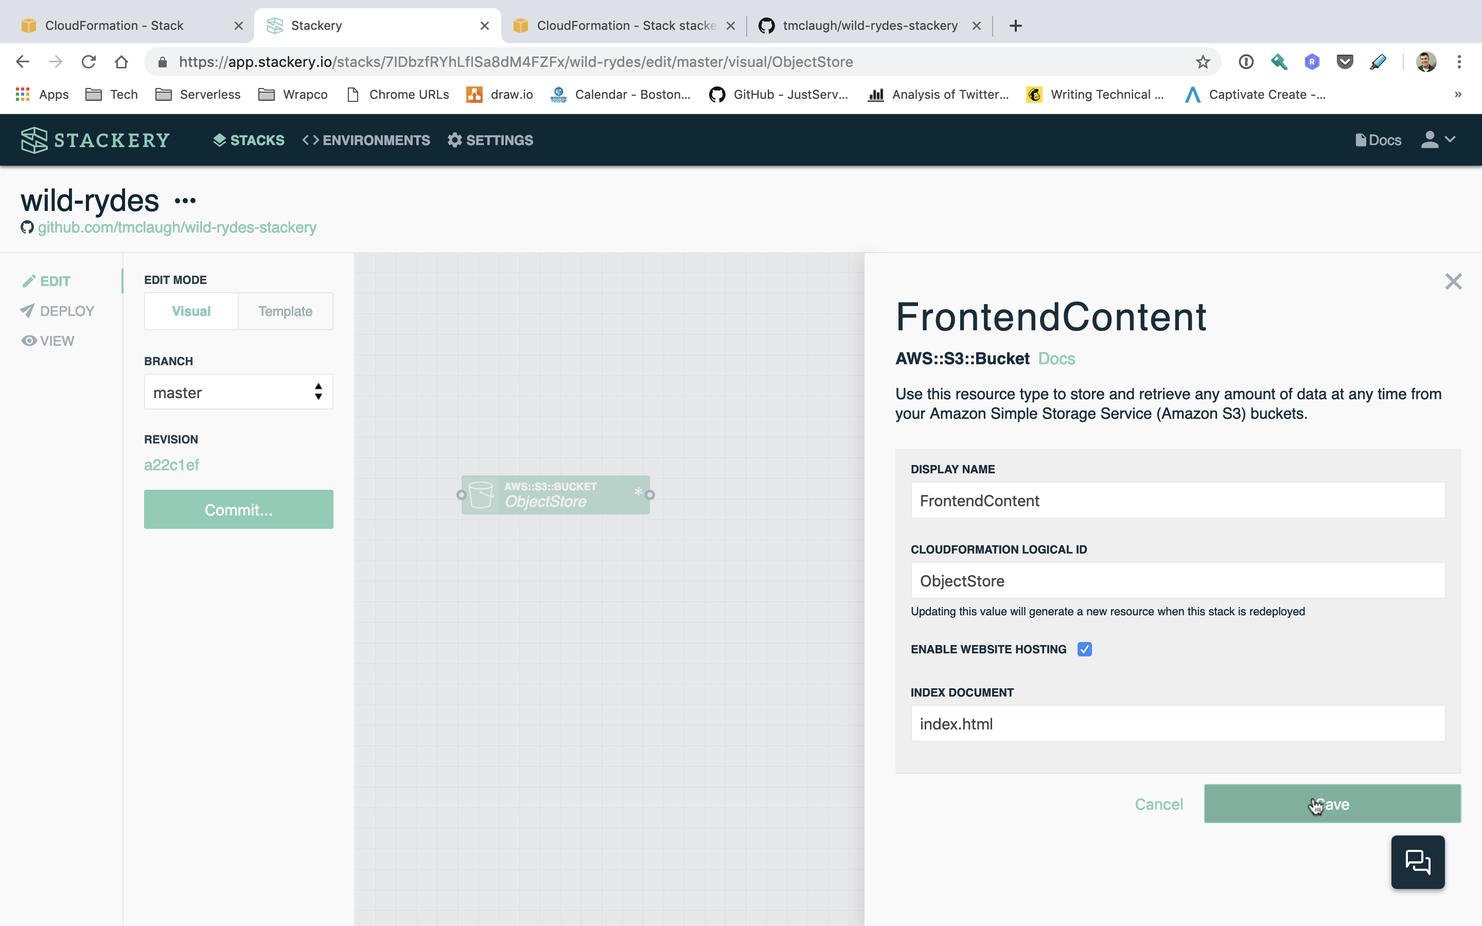
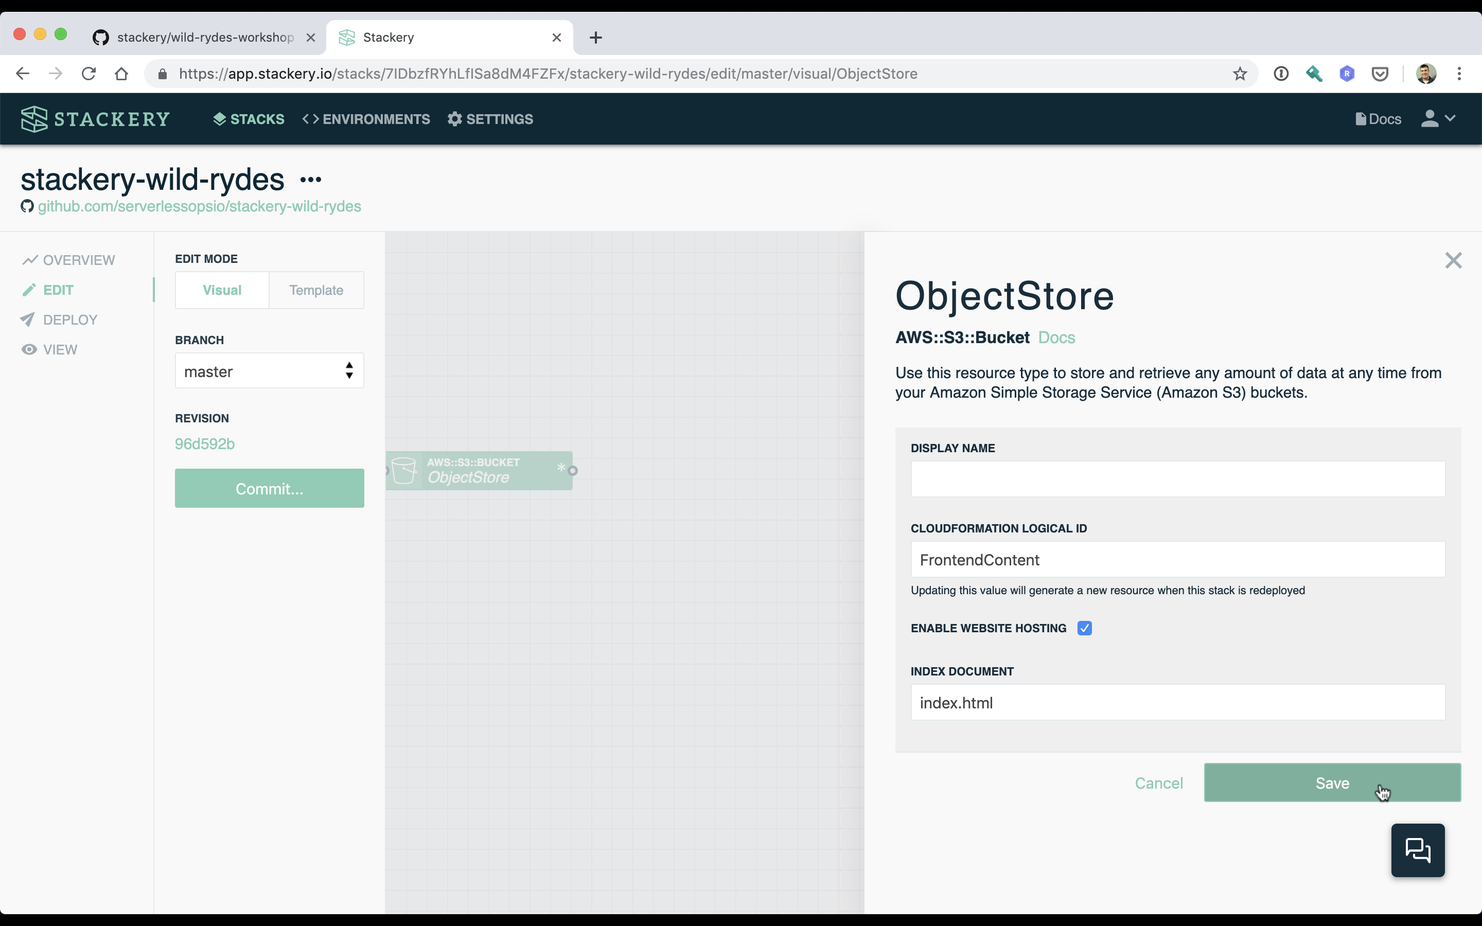
add images

diff --git a/01-frontend.md b/01-frontend.md
@@ -1,93 +1,82 @@
 # Frontend Content
-In this step of the workshop you will create and deploy the Wild Rydes frontend. The frontend is composed of an AWS S3 bucket and a Lambda function that is triggered on deployment which will populate the S3 bucket with the Wild Rydes static content.
+In this step of the workshop you will create and deploy the *Wild Rydes* frontend. The frontend is composed of an AWS S3 bucket and an AWS Lambda function that is triggered on deployment which will populate the S3 bucket with the *Wild Rydes* static content.
 
 ## AWS Services
 
 * AWS S3
 * AWS Lambda
+* AWS Cloudformation
 
 ## Instructions
 
 ### 1. Add an Object Store resource
-Add an "Object Store" resource (an AWS S3 Bucket) to serve the website content. Click the **Add Resource** button in the top right of screen to reveal the resources menu. Then click on the *Object Store* resource to add it to the canvas and your application stack. Alternatively you can also drag and place the resource on the canvas.
+Add an *Object Store* resource (an AWS S3 Bucket) to serve the website content. Click the **Add Resource** button in the top right of screen to reveal the resources menu. Then click on the *Object Store* resource to add it to the canvas and your application stack. Alternatively you can also drag and place the resource on the canvas.
 
 ![Add Object Store](./images/01-object-store.png)
 
-Next, double-click on the object store to edit it's settings. Set the **CLOUDFORMATION LOGICAL ID** fields to `FrontendContent`. Then click **ENABLE WEBSITE HOSTING** and leave the value of **INDEX DOCUMENT** as `index.html`. Finally save the Settings.
+Next, double-click on the Object Store resouce on the canvas to edit it's settings. Set the **CLOUDFORMATION LOGICAL ID** fields to `FrontendContent`. Then click **ENABLE WEBSITE HOSTING** and leave the value of **INDEX DOCUMENT** as `index.html`. Finally save the Settings.
 
-<!-- FIXME: Cloudformation Logica ID is wrong-->
 ![Configure Object Store](./images/01-object-store-config.png)
 
-AWS S3 bucket names must be globally unique, no two accounts can have a bucket with the same name. Because of this you need to explicitly name your bucket so it doesn't conflict with others in this workshop. Start by changing from the *Visual* **EDIT MODE** by clicking on *Template* in the upper left. This will change away from the visual canvas to the raw stack YAML.
-
-<!-- FIXME: IMAGE -->
-
-<!-- FIXME: remove once Stackery pushes out change to add AWS::AccountId automatically
-Find the *FrontendContent* resource (you can use Ctrl+F to search for it) and append `${AWS::AccountId}` to the existing **BucketName** value.
-
-Old resource:
-
-```yaml
-FrontendContent:
-  Type: AWS::S3::Bucket
-  Properties:
-    BucketName: !Sub ${AWS::StackName}-frontendcontent
-```
-
-New resource:
-
-```yaml
-FrontendContent:
-  Type: AWS::S3::Bucket
-  Properties:
-    BucketName: !Sub ${AWS::StackName}-frontendcontent-${AWS::AccountId}
-```
--->
-
-Once you've done that, click the **Commit** button on the left of the screen and then click the **Commit and Push** button.
+Click the **Commit** button on the left side of the screen to review your changes. The click **Commit and Push** to save your changes and push them to GitHub.
 
 ### 2. Add a Function resource
 Add a Function resource (an AWS Lambda Function) to update the website's static content. This function will copy the contents of a directory in the project source code to the Object Store we've just configured. You will also configure this Function resource to be triggered on every deployment of the stack.
 
 From the *Add Resources* menu (found buy clicking *Add Resource*), click a Function resource to add it to the stack.
 
-<!-- FIXME: IMAGE -->
+![Function Resource](./images/01-function.png)
 
-Next drag a wire from the Function to the *FrontendContent* Object Store. **Make sure to drag the wire from the right end of the Function resource and connect it to the left end of the Object Store resource**. The line you are dragging should be a dotted line and not a solid line if you've done this correctly. This distinction is necessary because we want to indicate that the Function resource needs permissions to access the Object Store resource, not that the Object Store resource is an event trigger for the function.
+Next drag a wire from the Function to the *FrontendContent* Object Store. **Make sure to drag the wire from the right end of the Function resource and connect it to the left end of the Object Store resource**. The line you are dragging should be a dotted line and not a solid line if you've done this correctly. This distinction is necessary because we want to indicate that the Function resource needs permissions to access the Object Store resource, not that the Object Store resource is an event trigger for the Function.
 
-<!-- FIXME: IMAGE -->
+![Function Relationship](./images/01-function-relationship.png)
 
 To tell if you've drawn the relationship correctly, double-click on the Function resource and scroll down to **ENVIRONMENT VARIABLES**. You should see the variables `BUCKET_NAME` and `BUCKET_ARN` defined.
 
+![Function S3 Environmental Variables](./images/01-function-s3-env-vars.png)
+
 Next in the Function's settings, set the **LOGICAL ID** field enter the value `PopulateFrontendContent`. Then update the **SOURCE PATH** field to `src/populateFrontendContent`. This path is where Stackery will create a scaffold for the function code inside the Git repository.
 
+![Function Config](./images/01-function-config.png)
 
-Scroll further down in the settings and check off **TRIGGER ON FIRST DEPLOY** and **TRIGGER ON EVERY DEPLOY**. This will create an [AWS CloudFormation CustomResource](https://docs.aws.amazon.com/AWSCloudFormation/latest/UserGuide/aws-resource-cfn-customresource.html) in the stack that will the function on deployments and updates. After you've done this, click the **Save** Button.
 
-<!-- FIXME: IMAGE -->
+Scroll further down in the settings and check off **TRIGGER ON FIRST DEPLOY** and **TRIGGER ON EVERY DEPLOY**. This will create an [AWS CloudFormation CustomResource](https://docs.aws.amazon.com/AWSCloudFormation/latest/UserGuide/aws-resource-cfn-customresource.html) in the stack that will trigger the function on deployments and updates. After you've done this, click the **Save** Button.
+
+![Function Config Deploy](./images/01-function-config-deploy.png)
+
+Click the **Commit** button on the left side of the screen to review your changes. The click **Commit and Push** to save your changes and push them to GitHub.
+
+![Commit Function changes](./images/01-function-commit.png)
 
 
 ### 3. Clone the application repository and workshop locally
 
-Clone your application repository using Git via the command line or favorite IDE / development tools to your computer. You will now locally edit the code of the _populateFrontendContent_ function. In the upper left of your screen underneath the stack name is a link to your code repository. Click the link to navigate to it and follow the GitHub instructions for cloning it to your computer.
+Clone your application repository using Git via the command line or favorite IDE / development tool to your computer. You will now locally edit the code of the _populateFrontendContent_ function. In the upper left of your screen underneath the stack name is a link to your code repository. Click the link to navigate to it and follow the GitHub instructions for cloning it to your computer.
+
+*NOTE: Do not use the URL in the example screenshot below. Use your own project's URL*
 
 
-<!-- FIXME: IMAGE -->
+![GitHub](./images/01-github.png)
+
+```
+$ git clone <YOUR_PROJECT_URL>
+```
 
 If you browse the contents of the project directory you will notice the repository has a scaffold for the _PopulateFrontendContent_ Function reslource in _src/populateFrontendContent_
+
 ```
 $ tree stackery-wild-rydes
-stackery-wild-rydes
+stackery-wild-rydes/
 ├── src
-│   └── populateFrontendContent
-│       ├── README.md
-│       └── index.js
+│   └── populateFrontendContent
+│       ├── README.md
+│       ├── index.js
+│       └── package.json
 └── template.yaml
 ```
 
-Next clone this workshop to your computer. You will be copying the code from the workshop repository into your own application stack.
+Next clone this workshop to your computer. You will be copying code from the workshop repository into your own application stack.
 
-<!-- FIXME: Perhaps we change the stackery repo name? -->
 ```
 git clone https://github.com/stackery/wild-rydes-workshop.git wild-rydes-workshop
 ```
@@ -118,21 +107,34 @@ $ git push
 ### 4. Deploy the stack
 You'll now deploy the *stackery-wild-rydes* stack to AWS. Stackery will package your code repository and deploy it using AWS CloudFormation.
 
-In Stackery click **Deploy** view in the left sidebar to enter the Deploy view. Next click **Prepare new deployment** for the **development** environment. For the **branch or SHA** value enter `master` and then click **Prepare Deployment**.
-<!-- FIXME: IMAGE -->
+In Stackery click **Deploy** view in the left sidebar to enter the *Deploy* view. Next click **Prepare new deployment** for the **development** environment.
 
-Once the preparation completes (this should take about 20 seconds), click the **Deploy** button to open CloudFormation. Then click the **Execute** button in the CloudFormation Console to provision the Object Store (S3 Bucket) and Function (Lambda) resources.
-<!-- FIXME: IMAGE -->
+![Deploy](./images/01-deploy.png)
 
-<!-- FIXME: IMAGE -->
+
+
+For the **branch or SHA** value enter `master` (if it's not already there) and then click **Prepare Deployment**.
+
+![Deploy Prepare](./images/01-deploy-prepare.png)
+
+
+
+Once the preparation completes (this should take about 20 seconds) the **Prepare Deployment** button will now say **Deploy**. Click the button to open AWS CloudFormation. Then click the **Execute** button in the CloudFormation Console to provision the Object Store (S3 Bucket) and Function (Lambda) resources.
+
+![01-cloudformation](./images/01-cloudformation.png)
+
+
 
 ### 5. View the website
+
 Now you can visit your Wild Rydes website that you have deployed.
 
-Once the deployment is complete, switch to the **View** view in the left sidebar of Stackery. Double-click the *FrontendContent* Object Store resource to view its details. On the details page click on the **Website Hosting Address** link to open the website.
+Once the deployment is complete, switch to the **View** view in the left sidebar of Stackery. Double-click the *FrontendContent* Object Store resource to view its details. On the details slide-in click on the **Website Hosting Address** link to open the website.
 
-<!-- FIXME: IMAGE -->
+![Deploy View](./images/01-deploy-view.png)
 
-The website should appear, though it's missing resources it needs to be fully functional
-<!-- FIXME: IMAGE -->
 
+
+The website should appear, though it's missing resources it needs to be fully functional.
+
+![Wild Rydes](/Users/tom/Source/stackery/wild-rydes-workshop/images/01-wild-rydes.png)

diff --git a/02-user-management.md b/02-user-management.md
@@ -1,49 +1,76 @@
 # User Management
-You’ll now add user management to Wild Rydes. By adding AWS Cognito support to the application you can manage user sign ups and handle application authentication and authorization. Once implemented, you’ll head back to your application, sign up, confirm your email, and login to the application.
+You’ll now add user management to *Wild Rydes*. By adding AWS Cognito support to the application you can manage user sign ups and handle application authentication and authorization. Once implemented, you’ll head back to your application, sign up, confirm your email, and login to the application.
 
 <!-- FIXME: Add more detail about Cognito, user pools, user pool clients -->
 
 ## AWS Services
 <!-- FIXME: link to Stackery resource docs? -->
+
 * AWS Cognito
   * User pools
   * User pool clients
 
 ## Instructions
-Return to the visual editor from the template editor if you have not done so already.
+Return to the visual editor by clicking **EDIT** in the left sidebar from the template editor if you have not done so already.
 
 ### 1. Add a User Pool resource
 
-Add a Cognito User Pool resource to manage Wild Rydes users. Click the **Add Resource** button in the top right of screen to reveal the resources menu. Then click on the _User Pool_ resource or drag it onto the canvas. This will add a new resource named _UserPool_ to the canvas. When you add the _UserPool_ resource to the canvas it will expand and contain a number of events. These events can be connected to Lambda functions if you want them to trigger custom actions during the signup or login process. _You won’t need to worry about these events in this workshop._
+Add a Cognito User Pool resource to manage *Wild Rydes* users. Click the **Add Resource** button in the top right of screen. Then click on the _User Pool_ resource (or drag it) onto the canvas. This will add a new resource named _UserPool_ to the canvas. When you add the _UserPool_ resource to the canvas it will expand and contain a number of events. These events can be connected to Lambda functions if you want them to trigger custom actions during the signup or login process. _You won’t need to worry about these events in this workshop._
 
-<!-- FIXME: IMAGE -->
+![Add User Pool](./images/02-user-pool.png)
 
-Now double-click on the User Pool resource to open up it’s configuration window. Enable the **AUTO-VERIFY EMAILS** setting and then clock **Save**.
 
-<!-- FIXME: IMAGE -->
+
+Now double-click on the *UserPool* resource to open up it’s configuration window. Enable the **AUTO-VERIFY EMAILS** setting and then clock **Save**.
+
+![User Pool Verify](/Users/tom/Source/stackery/wild-rydes-workshop/images/02-user-pool-verify.png)
+
+
 
 ### 2. Add a User Pool Client resource
-Add a User Pool Client resource to the application stack. Connecting a User Pool Client to a User Pool creates a User Pool Client ID which an application can use to access the User Pool and perform actions like adding users to the User Pool and authenticating those users against the User Pool. Click the **Add Resource** button in the top right of screen and then click on the _User Pool Client_ resource. (You may need to scroll down through the list of resources.) This will add the _UserPoolClient_ resource to your application.
 
-<!-- FIXME: IMAGE -->
+Add a User Pool Client resource to the application stack. Connecting a User Pool Client to a User Pool creates a User Pool Client ID which an application can use to access the User Pool and perform actions like adding users to the User Pool and authenticating those users. Click the **Add Resource** button and then click on the _User Pool Client_ resource. (You may need to scroll down through the list of resources.) This will add the _UserPoolClient_ resource to your application.
 
-Next, drag a wire from the _UserPoolClient_ resource to the _UserPool_ resource. (Make sure you drag the line from the right end of the _UserPoolClient_ to the left end of the _UserPool_.)
+![User Pool client](./images/02-user-pool-client.png)
 
-<!-- FIXME: IMAGE -->
+
+
+Next, drag a wire from the _UserPoolClient_ resource to the _UserPool_ resource. (Make sure you drag the line from the right end of the _UserPoolClient_ to the left end of the _UserPool_. You can rearrange resouyrces on the canvas to make dragging the line between resources easier.)
+
+![User Pool Client Relationship](./images/02-user-pool-client-to-user-pool.png)
+
 
 
 ### 3. Configure website content to authenticate users.
-Now connect to the _PopulateFrontendContent_ Function to the *UserPool* and *UserPoolClient* resources. Doing so will create environmental variables in the Fubnction’s configuration and those variable values will be used by the _PopulateFrontendContent_ Function to populate the *js/config.js* object which will be stored in the _FrontendContent_ S3 bucket.
 
-Start by connecting the _PopulateFrontendContent_ Function to the _UserPool_ resource. Do this by dragging a wire from the Function to the User Pool. This will add an environmental variable to the function called **USER_POOL_ID**. Next, drag a wire from the _PopulateFrontendContent_ Function to the _UserPoolClient_ resource which will add the **USER_POOL_CLIENT_ID** environmental variable to the function.
+Now connect to the _PopulateFrontendContent_ Function to the *UserPool* and *UserPoolClient* resources. Doing so will create environmental variables in the Function’s configuration and those variable values will be used by the _PopulateFrontendContent_ Function to populate the *js/config.js* object which will be stored in the _FrontendContent_ S3 bucket.
+
+Start by connecting the _PopulateFrontendContent_ Function to the _UserPool_ resource. Do this by dragging a wire from the Function to the User Pool. Next, drag a wire from the _PopulateFrontendContent_ Function to the _UserPoolClient_ resource.
+
+![Function To Pool Resources](./images/02-function-to-pool-resources.png)
+
+
+
+Doing these actions will add environmental variable to the function called **USER_POOL_ID** and **USER_POOL_CLIENT_ID** 
+
+![User Pool Env Vars](/Users/tom/Source/stackery/wild-rydes-workshop/images/02-user-pool-env-vars.png)
+
+
 
 ### 4. Deploy the stack again
-Commit your updates and yeploy the updated AWS stack. Start by clicking the **Commit** button on the left of the screen and then click the **Commit and Push** button.
+
+Commit your updates and deploy the updated AWS stack. Start by clicking the **Commit** button on the left of the screen and then click the **Commit and Push** button.
 
 Next click **Deploy** in the left sidebar to enter the Deploy view. Next click **Prepare new deployment** for the **development** environment. For the **branch or SHA** value enter `master` and then click **Prepare Deployment**. Once the preparation completes (this should take about 20 seconds), click the **Deploy** button to open AWS CloudFormation. Then click the **Execute** button in the CloudFormation Console to add the Cognito User Pool and User Pool Client.
 
 ### 5. Register as a new user
-<!-- FIXME: Specify password policy requirements. -->
-<!-- FIXME: Add some images -->
-In your web browser on the Wild Rydes home page add _/register.html_ to the URL to make your way to the application registration page. Enter your email address, create a password, and confirm that password. Next, Click the **Let’s Ride** button where you’ll be directed to a new page while also receiving an email with a verification code. Enter the email address you signed up with and the verification code you received. Once you click **Verify** you will be redirected to the Wild Rydes login page where you can login using your email address and password from earlier.
+In your web browser on the Wild Rydes home page add `/register.html` to the URL to make your way to the application registration page. Enter your email address, create a password, and confirm that password. 
+
+*NOTE: Your passord must be at least 8 letters with uppercase and lowercase letters, numbers, and special characters*
+
+![Wild Rydes Register](./images/02-wild-rydes-register.png)
+
+Next, Click the **Let’s Ride** button where you’ll be directed to a new page while also receiving an email with a verification code. Enter the email address you signed up with and the verification code you received. Once you click **Verify** you will be redirected to the Wild Rydes login page where you can login using your email address and password from earlier.
+
+Don't be alarmed when you login and are presented with an error. There's still more work to go!
 

diff --git a/readme.md b/readme.md
@@ -26,7 +26,7 @@ At a minimum you will probably need to create a Stackery account. Follow the ins
 
 
 ### 1. Create a Github account
-If you do not already have a GitHub account. You will store the workshop's code in Github. Stackery will also deploy your code from GitHub. _NOTE: Stackery supports multiple code repository platforms such as Gitlab, Bitbucket, and AWS CodePipeline. This workshop uses GitHub only to simplify instructions but you are free to choose one of the other supported providers.._
+If you do not already have a GitHub account, create one. You will store the workshop's code in Github. Stackery will also deploy your code from GitHub. _NOTE: Stackery supports multiple code repository platforms such as Gitlab, Bitbucket, and AWS CodePipeline. This workshop uses GitHub only to simplify instructions but you are free to choose one of the other supported providers._
 
 Create a free individual account by clicking on the link below. On that page you will create a username, enter your email, and set a password for your account.
 
@@ -41,19 +41,23 @@ To create an AWS account, click on the link below and follow the signup screens.
 
 * [Create an AWS account](https://portal.aws.amazon.com/billing/signup)
 
-**You will need to enter a credit card to complete account setup.** You card will not be charged unless your account exceeds the free tier usage limits. All of the resources you will launch as part of this workshop are eligible for the [AWS free tier](https://aws.amazon.com/free/) if your account is less than 12 months old. See the AWS Free Tier page for more details.
+**You will need to enter a credit card to complete account setup.** Your card will not be charged unless your account exceeds the free tier usage limits. All of the resources you will launch as part of this workshop are eligible for the [AWS free tier](https://aws.amazon.com/free/) if your account is less than 12 months old. See the [AWS Free Tier](https://aws.amazon.com/free/) page for more details.
 
 
-### 3. Create a Stackery account and _Wild Rydes_ stack
+### 3. Create a Stackery account
 
-Finally create a Stackery account and link your AWS and Github accounts to it. After that you will create the `Wild Rydes` application stack.
+Finally create a Stackery account and link your AWS and Github accounts to it.
 
 
 #### Create Stackery Account
 
-Click on the link below. Once signup is completes you'll be redirected to the application's welcome page. While on the welcome page, check your mail for an email verification message. You'll need to verify your email before you proceed. Once you have completed this, click the **Next Step** button.
+Click on the link below to bring you to the Stackery signup page.
 
 * [Create a Stackery account](https://stackery.io/sign-up)
+
+<!-- FIXME: IMAGE -->
+
+Once sign up is completed you'll be redirected to the application's welcome page. While on the welcome page, check your mail for an email verification message. You'll need to verify your email before you proceed. Once you have completed this, click the **Next Step** button.
 
 
 #### Link Stackery to GitHub
@@ -70,7 +74,7 @@ Now link your AWS account to Stackery. Click on the **Link my AWS account** butt
 <!-- FIXME: move image to repo -->
 ![AWS link](https://docs.stackery.io/docs/assets/quickstart/aws1.png)
 
-This will open up the CloudFormation console with pre-populated parameters. In order to proceed, click the checkmark saying you acknowledge the creation of IAM resources, then click the Create stack button. This process will take a few minutes as CloudFormation creates the appropriate roles.
+This will open up the CloudFormation console (you may be required to login first) with pre-populated parameters. In order to proceed, click the check mark saying you acknowledge the creation of IAM resources, then click the **Create stack** button. This process will take a few minutes as CloudFormation creates the appropriate roles.
 
 ![AWS CFN](https://docs.stackery.io/docs/assets/quickstart/aws2.png)
 
@@ -80,9 +84,25 @@ Once you have completed all these steps you should be ready to use Stackery!
 
 Create a stack named `stackery-wild-rydes` with a new Git repository using a blank stack template.
 
-Click stacks in the upper left of the Stackery application. This will bring you to the stack management page. The stack management page should be populated with some sample stacks you check check out at a later time.
+Click **STACKS** in the upper left of the Stackery application.
 
-Click the **Add Stack** button in the upper right to add a Stack. In the prompt that appears start by selecting GitHub as your hosting provider. After doing so the prompt will expand. Then enter `stackery-wild-rydes` in the **STACK NAME** prompt. For **REPO SOURCE** make sure *Create New Repo* is selected. And if you're a member of multiple Hithub organizations, select the organization to create the Git repository in. Finally, for **STACK BLUEPRINT** select *Blank*.
+![Stackery Stacks](./images/00-stacks.png)
+
+
+
+This will bring you to the stack management page. The stack management page should be populated with some sample stacks you check check out at a later time. Click the **Add Stack** button in the upper right to add a Stack.
+
+![Stackery Stacks List](./images/00-stacks-list.png)
+
+
+
+In the prompt that appears start by selecting GitHub as your hosting provider. After doing so the prompt will expand. Then enter `stackery-wild-rydes` in the **STACK NAME** prompt. For **REPO SOURCE** make sure *Create New Repo* is selected. And if you're a member of multiple GitHub organizations, select the organization to create the Git repository in. Finally, for **STACK BLUEPRINT** select *Blank*.
+
+![New Stack](./images/00-new-stack.png)
+
+
 
 Finally click **ADD STACK** to create the stack and be placed on the stack's canvass.
+
+![New Stack](./images/00-stackery-canvas.png)
 
